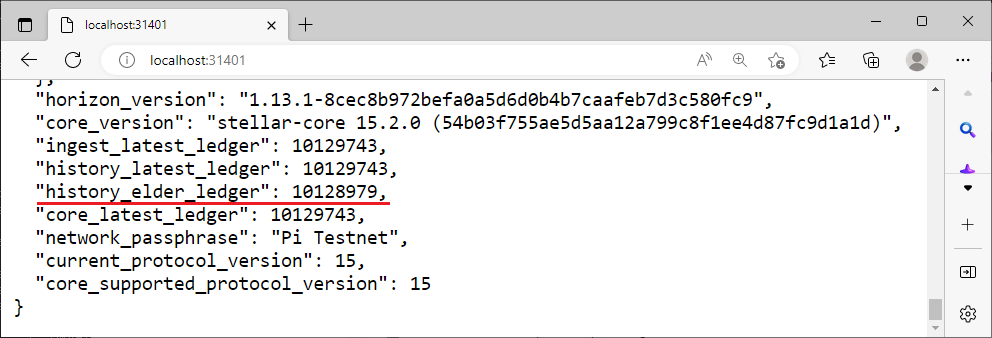
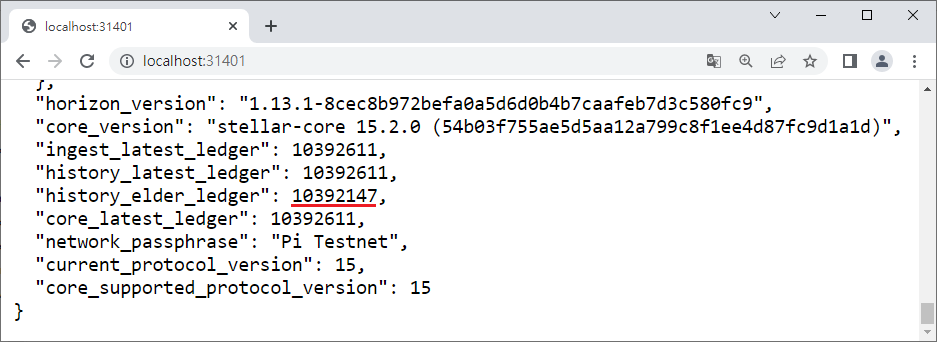
Add files via upload

diff --git a/api/index.htm b/api/index.htm
@@ -460,11 +460,11 @@ lang=EN-US> %appdata%\Pi Network\docker_volumes\stellar\horizon\etc\horizon.env
 </span><span style='font-family:"新細明體",serif'>，加入一行</span> <span lang=EN-US
 style='background:yellow'>export HISTORY_RETENTION_COUNT=nnn</span><span
 lang=EN-US> </span><span style='font-family:"新細明體",serif'>。範例中的</span><span
-lang=EN-US>17280</span><span style='font-family:"新細明體",serif'>個區塊大約是</span><span
-lang=EN-US>1</span><span style='font-family:"新細明體",serif'>天。</span></p>
+lang=EN-US>360</span><span style='font-family:"新細明體",serif'>個區塊大約是</span><span
+lang=EN-US>30</span><span style='font-family:"新細明體",serif'>分鐘。</span></p>
 
-<p class=MsoNormal><span lang=EN-US><img border=0 width=918 height=382 id="圖片 6"
-src="api.files/image017.png"></span></p>
+<p class=MsoNormal><span lang=EN-US><img border=0 width=927 height=416
+id="圖片 13" src="api.files/image017.png"></span></p>
 
 <p class=MsoNormal><span lang=EN-US>&nbsp;</span></p>
 
@@ -473,17 +473,19 @@ lang=EN-US>Horizon</span><span style='font-family:"新細明體",serif'>。</spa
 
 <p class=MsoNormal><span lang=EN-US>&nbsp;</span></p>
 
-<p class=MsoNormal><span style='font-family:"新細明體",serif'>一個小時後可以看到清除的紀錄：</span></p>
+<p class=MsoNormal><span style='font-family:"新細明體",serif'>一個小時後可以看到清除的紀錄，只保留</span><span
+lang=EN-US>360</span><span style='font-family:"新細明體",serif'>個區塊（</span><span
+lang=EN-US>10390832 - 10390473 + 1 = 360</span><span style='font-family:"新細明體",serif'>）。每個小時也都會執行。</span></p>
 
-<p class=MsoNormal><span lang=EN-US><img border=0 width=1132 height=183
-id="圖片 31" src="api.files/image018.png"></span></p>
+<p class=MsoNormal><span lang=EN-US><img border=0 width=1254 height=305
+id="圖片 28" src="api.files/image018.png"></span></p>
 
 <p class=MsoNormal><span lang=EN-US>&nbsp;</span></p>
 
 <p class=MsoNormal><span style='font-family:"新細明體",serif'>最早歷史區塊也跟著變動：</span></p>
 
-<p class=MsoNormal><span lang=EN-US><img border=0 width=992 height=338
-id="圖片 29" src="api.files/image019.png"></span></p>
+<p class=MsoNormal><span lang=EN-US><img border=0 width=937 height=342
+id="圖片 12" src="api.files/image019.png"></span></p>
 
 <p class=MsoNormal><span lang=EN-US>&nbsp;</span></p>
 
